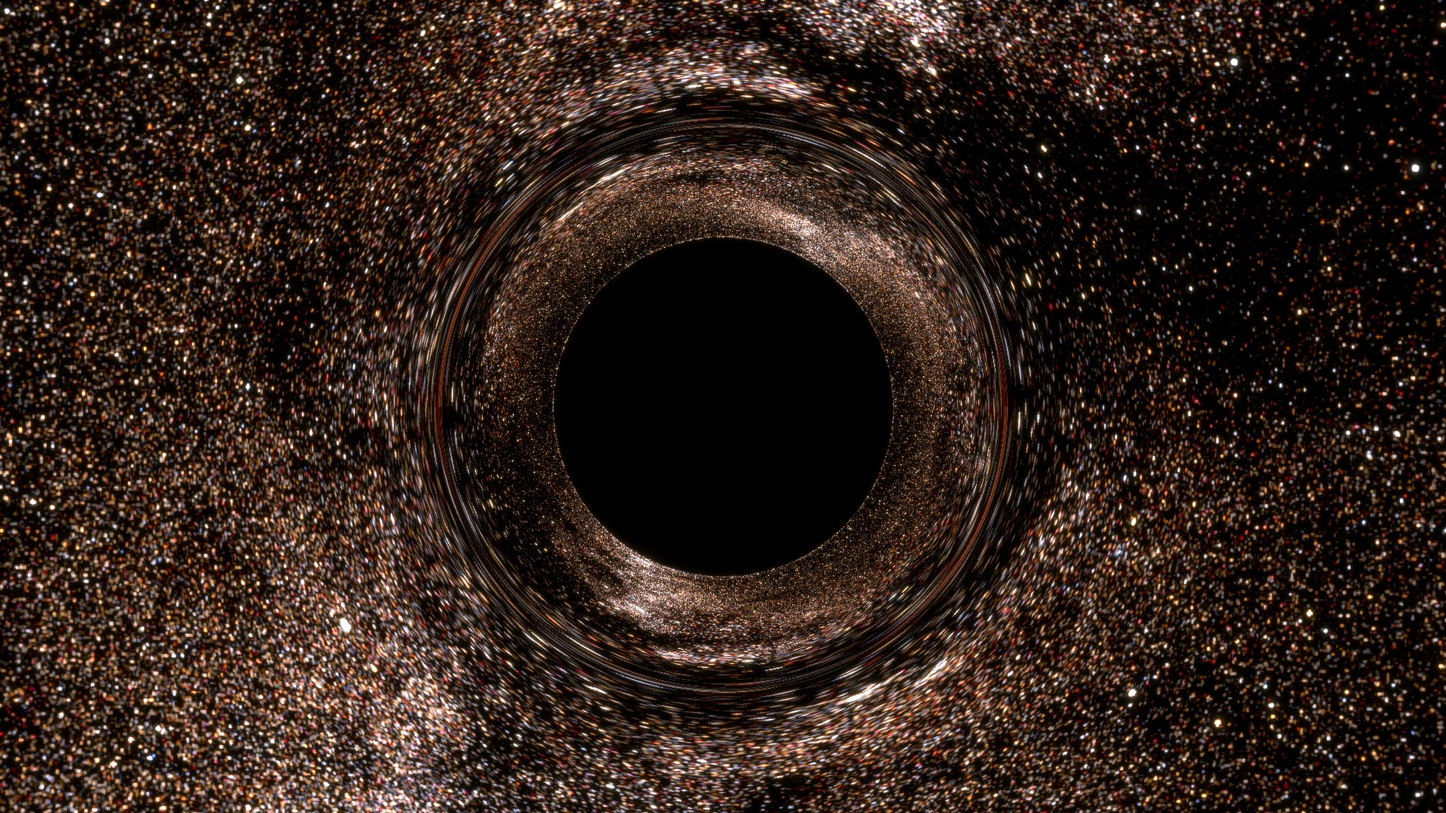
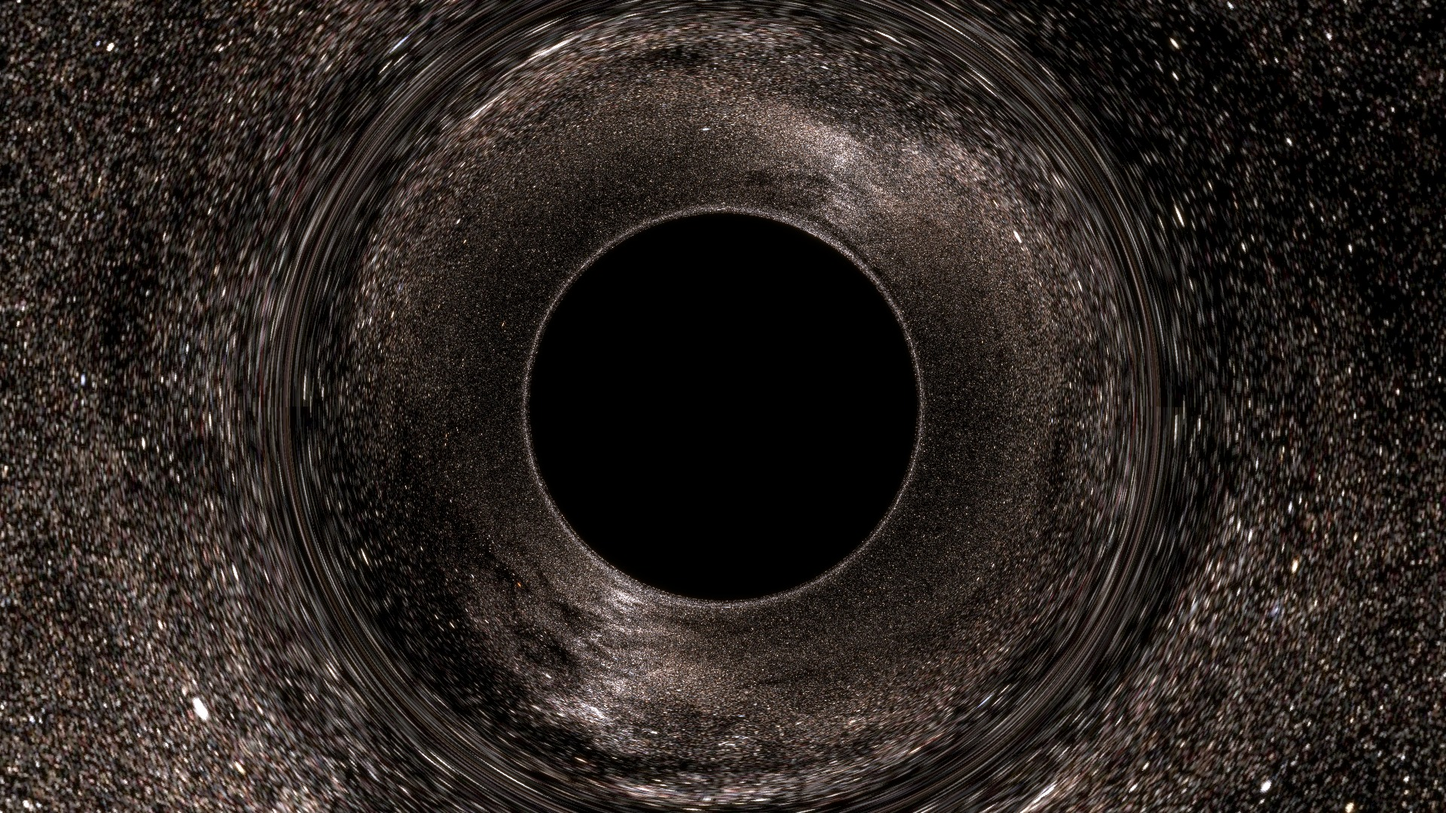
fixed bug/new pix

diff --git a/index.html b/index.html
@@ -59,7 +59,7 @@
     </nav>
 
 		<div class="container">
-			<img src="pics/cover.jpg" class="align-center img-responsive">
+			<img src="pics/hm_out_small.jpg" class="align-center img-responsive">
 
 			<div class="col-md-12" style="margin-y:30px">
 				<h1 class="text-center">How to draw a Black Hole</h1>
